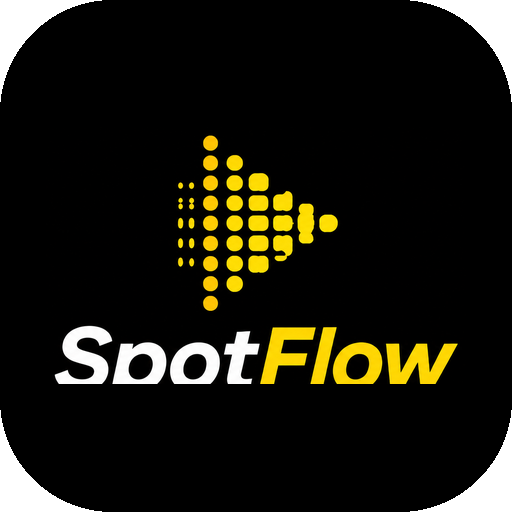
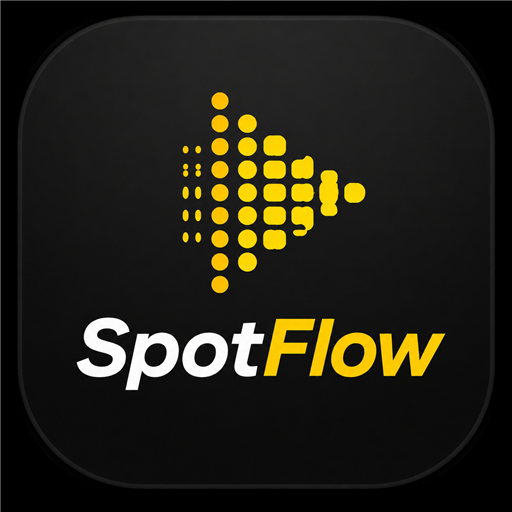
deploy: d1ae356 v0.0.0 [staging] tor. 15. 09. 2026  2:21

diff --git a/sw.js b/sw.js
@@ -1,1 +1,1 @@
-if(!self.define){let s,e={};const i=(i,n)=>(i=new URL(i+".js",n).href,e[i]||new Promise(e=>{if("document"in self){const s=document.createElement("script");s.src=i,s.onload=e,document.head.appendChild(s)}else s=i,importScripts(i),e()}).then(()=>{let s=e[i];if(!s)throw new Error(`Module ${i} didn’t register its module`);return s}));self.define=(n,r)=>{const l=s||("document"in self?document.currentScript.src:"")||location.href;if(e[l])return;let o={};const u=s=>i(s,l),a={module:{uri:l},exports:o,require:u};e[l]=Promise.all(n.map(s=>a[s]||u(s))).then(s=>(r(...s),o))}}define(["./workbox-9c191d2f"],function(s){"use strict";self.skipWaiting(),s.clientsClaim(),s.precacheAndRoute([{url:"spotflow-logo.png",revision:"9ff837beaae7fa1dc3f49606cdd8426b"},{url:"registerSW.js",revision:"1872c500de691dce40960bb85481de07"},{url:"notification.mp3",revision:"495b007e540929ee01e7f0ebe2cb47cc"},{url:"index.html",revision:"413a0f9f843cf7f486b5be91e26f038a"},{url:"icons.svg",revision:"3b4fcfcf393eca4d264dca4a4663bc37"},{url:"favicon.svg",revision:"7e840862161341271697daa99a40d76b"},{url:"icons/preview-512.png",revision:"50a3182d126662bba15eb9903e26a877"},{url:"icons/icon.svg",revision:"6c73a8a7912e82b07e328a619e6c216f"},{url:"icons/icon-512.png",revision:"50a3182d126662bba15eb9903e26a877"},{url:"icons/icon-512-maskable.png",revision:"db7b7ddf3205966ee821acd1664694e5"},{url:"icons/icon-192.png",revision:"d4c6c8dcc8eee0bd440e682a4a72e1b1"},{url:"fonts/fonts.css",revision:"e4f489587bd2df9a90fa72673d0f4624"},{url:"assets/web-BqKuqhJQ.js",revision:null},{url:"assets/supabase-zfsjU53t.js",revision:null},{url:"assets/Sponzorstva-CPTqAeUr.js",revision:null},{url:"assets/Settings-BzRrHga8.js",revision:null},{url:"assets/rolldown-runtime-DAXXjFlN.js",revision:null},{url:"assets/purify.es-Bu4Grnl0.js",revision:null},{url:"assets/Promocije-Bkwu-943.js",revision:null},{url:"assets/PdfSendModal-Cw6U3sDd.js",revision:null},{url:"assets/jsx-runtime-BvIZmjn5.js",revision:null},{url:"assets/jspdf.es.min-C9olxo-a.js",revision:null},{url:"assets/index.es-CZKQ5KPn.js",revision:null},{url:"assets/index-DMuIlxl7.css",revision:null},{url:"assets/index-Co3HiImI.js",revision:null},{url:"assets/html2canvas-CLVA0Ark.js",revision:null},{url:"assets/docxParse-CSU2G-Ha.js",revision:null},{url:"assets/DocxImporter-VgXw61Li.js",revision:null},{url:"assets/ConfirmModal-DUYBMh_Q.js",revision:null},{url:"assets/Analytics-DYrX2tS6.js",revision:null},{url:"notification.mp3",revision:"495b007e540929ee01e7f0ebe2cb47cc"},{url:"icons/icon-192.png",revision:"d4c6c8dcc8eee0bd440e682a4a72e1b1"},{url:"icons/icon-512-maskable.png",revision:"db7b7ddf3205966ee821acd1664694e5"},{url:"icons/icon-512.png",revision:"50a3182d126662bba15eb9903e26a877"},{url:"icons/preview-512.png",revision:"50a3182d126662bba15eb9903e26a877"}],{}),s.cleanupOutdatedCaches(),s.registerRoute(new s.NavigationRoute(s.createHandlerBoundToURL("index.html")))});
+if(!self.define){let s,e={};const i=(i,n)=>(i=new URL(i+".js",n).href,e[i]||new Promise(e=>{if("document"in self){const s=document.createElement("script");s.src=i,s.onload=e,document.head.appendChild(s)}else s=i,importScripts(i),e()}).then(()=>{let s=e[i];if(!s)throw new Error(`Module ${i} didn’t register its module`);return s}));self.define=(n,r)=>{const o=s||("document"in self?document.currentScript.src:"")||location.href;if(e[o])return;let l={};const u=s=>i(s,o),c={module:{uri:o},exports:l,require:u};e[o]=Promise.all(n.map(s=>c[s]||u(s))).then(s=>(r(...s),l))}}define(["./workbox-9c191d2f"],function(s){"use strict";self.skipWaiting(),s.clientsClaim(),s.precacheAndRoute([{url:"spotflow-logo.png",revision:"9ff837beaae7fa1dc3f49606cdd8426b"},{url:"registerSW.js",revision:"1872c500de691dce40960bb85481de07"},{url:"notification.mp3",revision:"495b007e540929ee01e7f0ebe2cb47cc"},{url:"index.html",revision:"413a0f9f843cf7f486b5be91e26f038a"},{url:"icons.svg",revision:"3b4fcfcf393eca4d264dca4a4663bc37"},{url:"favicon.svg",revision:"7e840862161341271697daa99a40d76b"},{url:"icons/Spot Flow ikona.png",revision:"97e8c598d92803289e503d3832b07fe5"},{url:"icons/preview-512.png",revision:"50a3182d126662bba15eb9903e26a877"},{url:"icons/icon.svg",revision:"6c73a8a7912e82b07e328a619e6c216f"},{url:"icons/icon-512.png",revision:"7958b3c0cb12ccc383d257f6e2b194dd"},{url:"icons/icon-512-maskable.png",revision:"86b296d72561b1eeda6afdf1441270af"},{url:"icons/icon-192.png",revision:"09d17d572ba2cedfdfe89932da5b8564"},{url:"fonts/fonts.css",revision:"e4f489587bd2df9a90fa72673d0f4624"},{url:"assets/web-BqKuqhJQ.js",revision:null},{url:"assets/supabase-zfsjU53t.js",revision:null},{url:"assets/Sponzorstva-CPTqAeUr.js",revision:null},{url:"assets/Settings-BzRrHga8.js",revision:null},{url:"assets/rolldown-runtime-DAXXjFlN.js",revision:null},{url:"assets/purify.es-Bu4Grnl0.js",revision:null},{url:"assets/Promocije-Bkwu-943.js",revision:null},{url:"assets/PdfSendModal-Cw6U3sDd.js",revision:null},{url:"assets/jsx-runtime-BvIZmjn5.js",revision:null},{url:"assets/jspdf.es.min-C9olxo-a.js",revision:null},{url:"assets/index.es-CZKQ5KPn.js",revision:null},{url:"assets/index-DMuIlxl7.css",revision:null},{url:"assets/index-Co3HiImI.js",revision:null},{url:"assets/html2canvas-CLVA0Ark.js",revision:null},{url:"assets/docxParse-CSU2G-Ha.js",revision:null},{url:"assets/DocxImporter-VgXw61Li.js",revision:null},{url:"assets/ConfirmModal-DUYBMh_Q.js",revision:null},{url:"assets/Analytics-DYrX2tS6.js",revision:null},{url:"notification.mp3",revision:"495b007e540929ee01e7f0ebe2cb47cc"},{url:"icons/icon-192.png",revision:"09d17d572ba2cedfdfe89932da5b8564"},{url:"icons/icon-512-maskable.png",revision:"86b296d72561b1eeda6afdf1441270af"},{url:"icons/icon-512.png",revision:"7958b3c0cb12ccc383d257f6e2b194dd"},{url:"icons/preview-512.png",revision:"50a3182d126662bba15eb9903e26a877"},{url:"icons/Spot Flow ikona.png",revision:"97e8c598d92803289e503d3832b07fe5"}],{}),s.cleanupOutdatedCaches(),s.registerRoute(new s.NavigationRoute(s.createHandlerBoundToURL("index.html")))});
